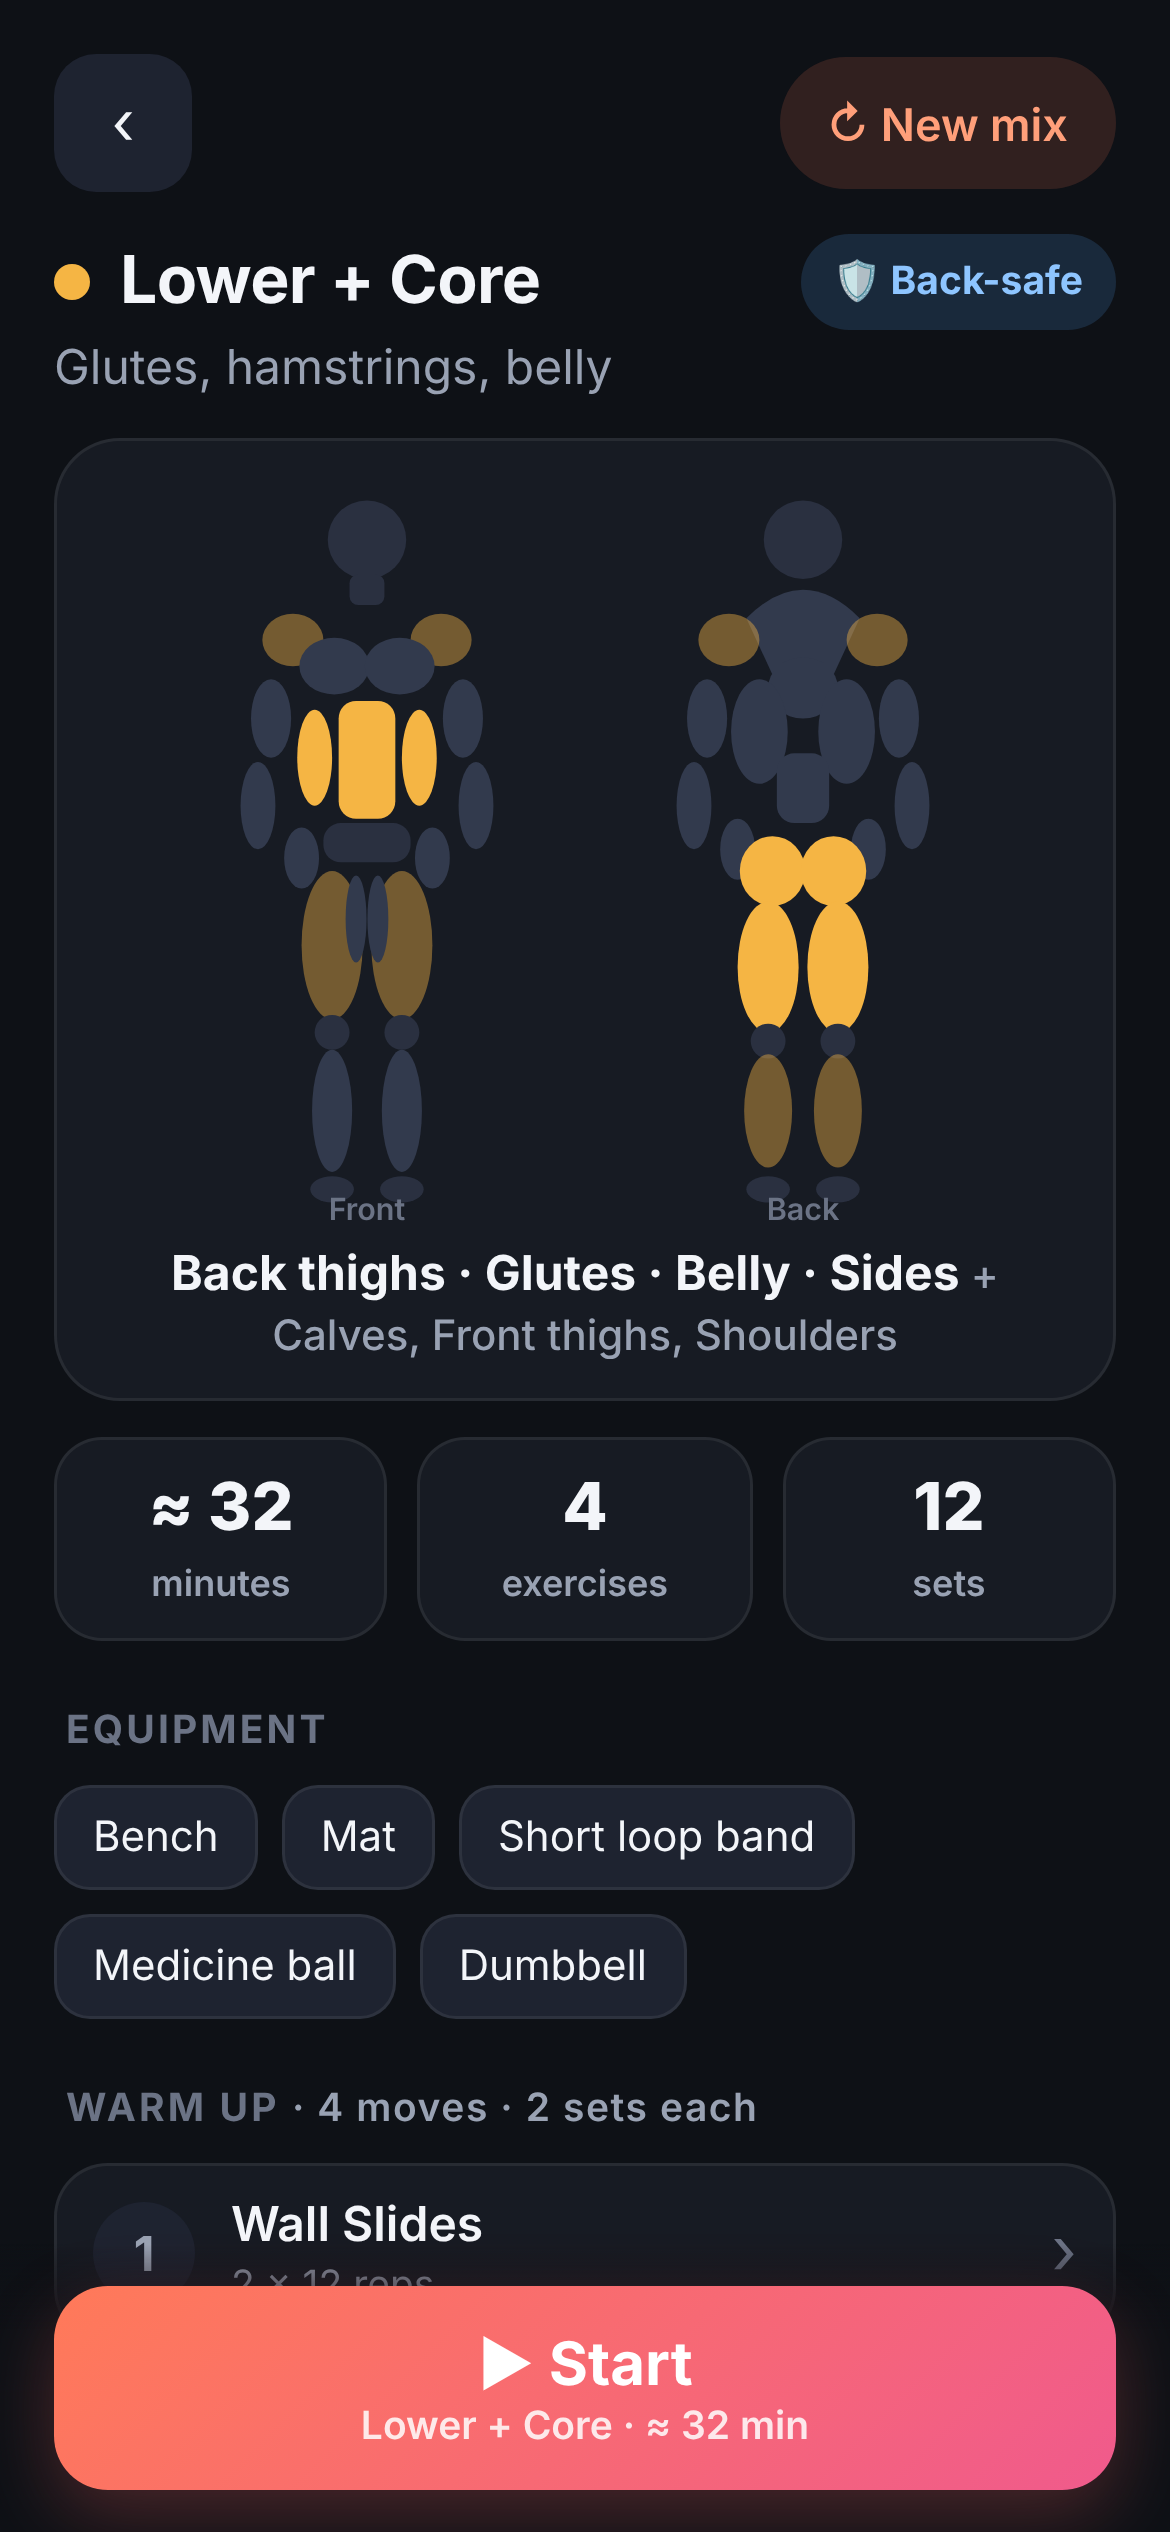
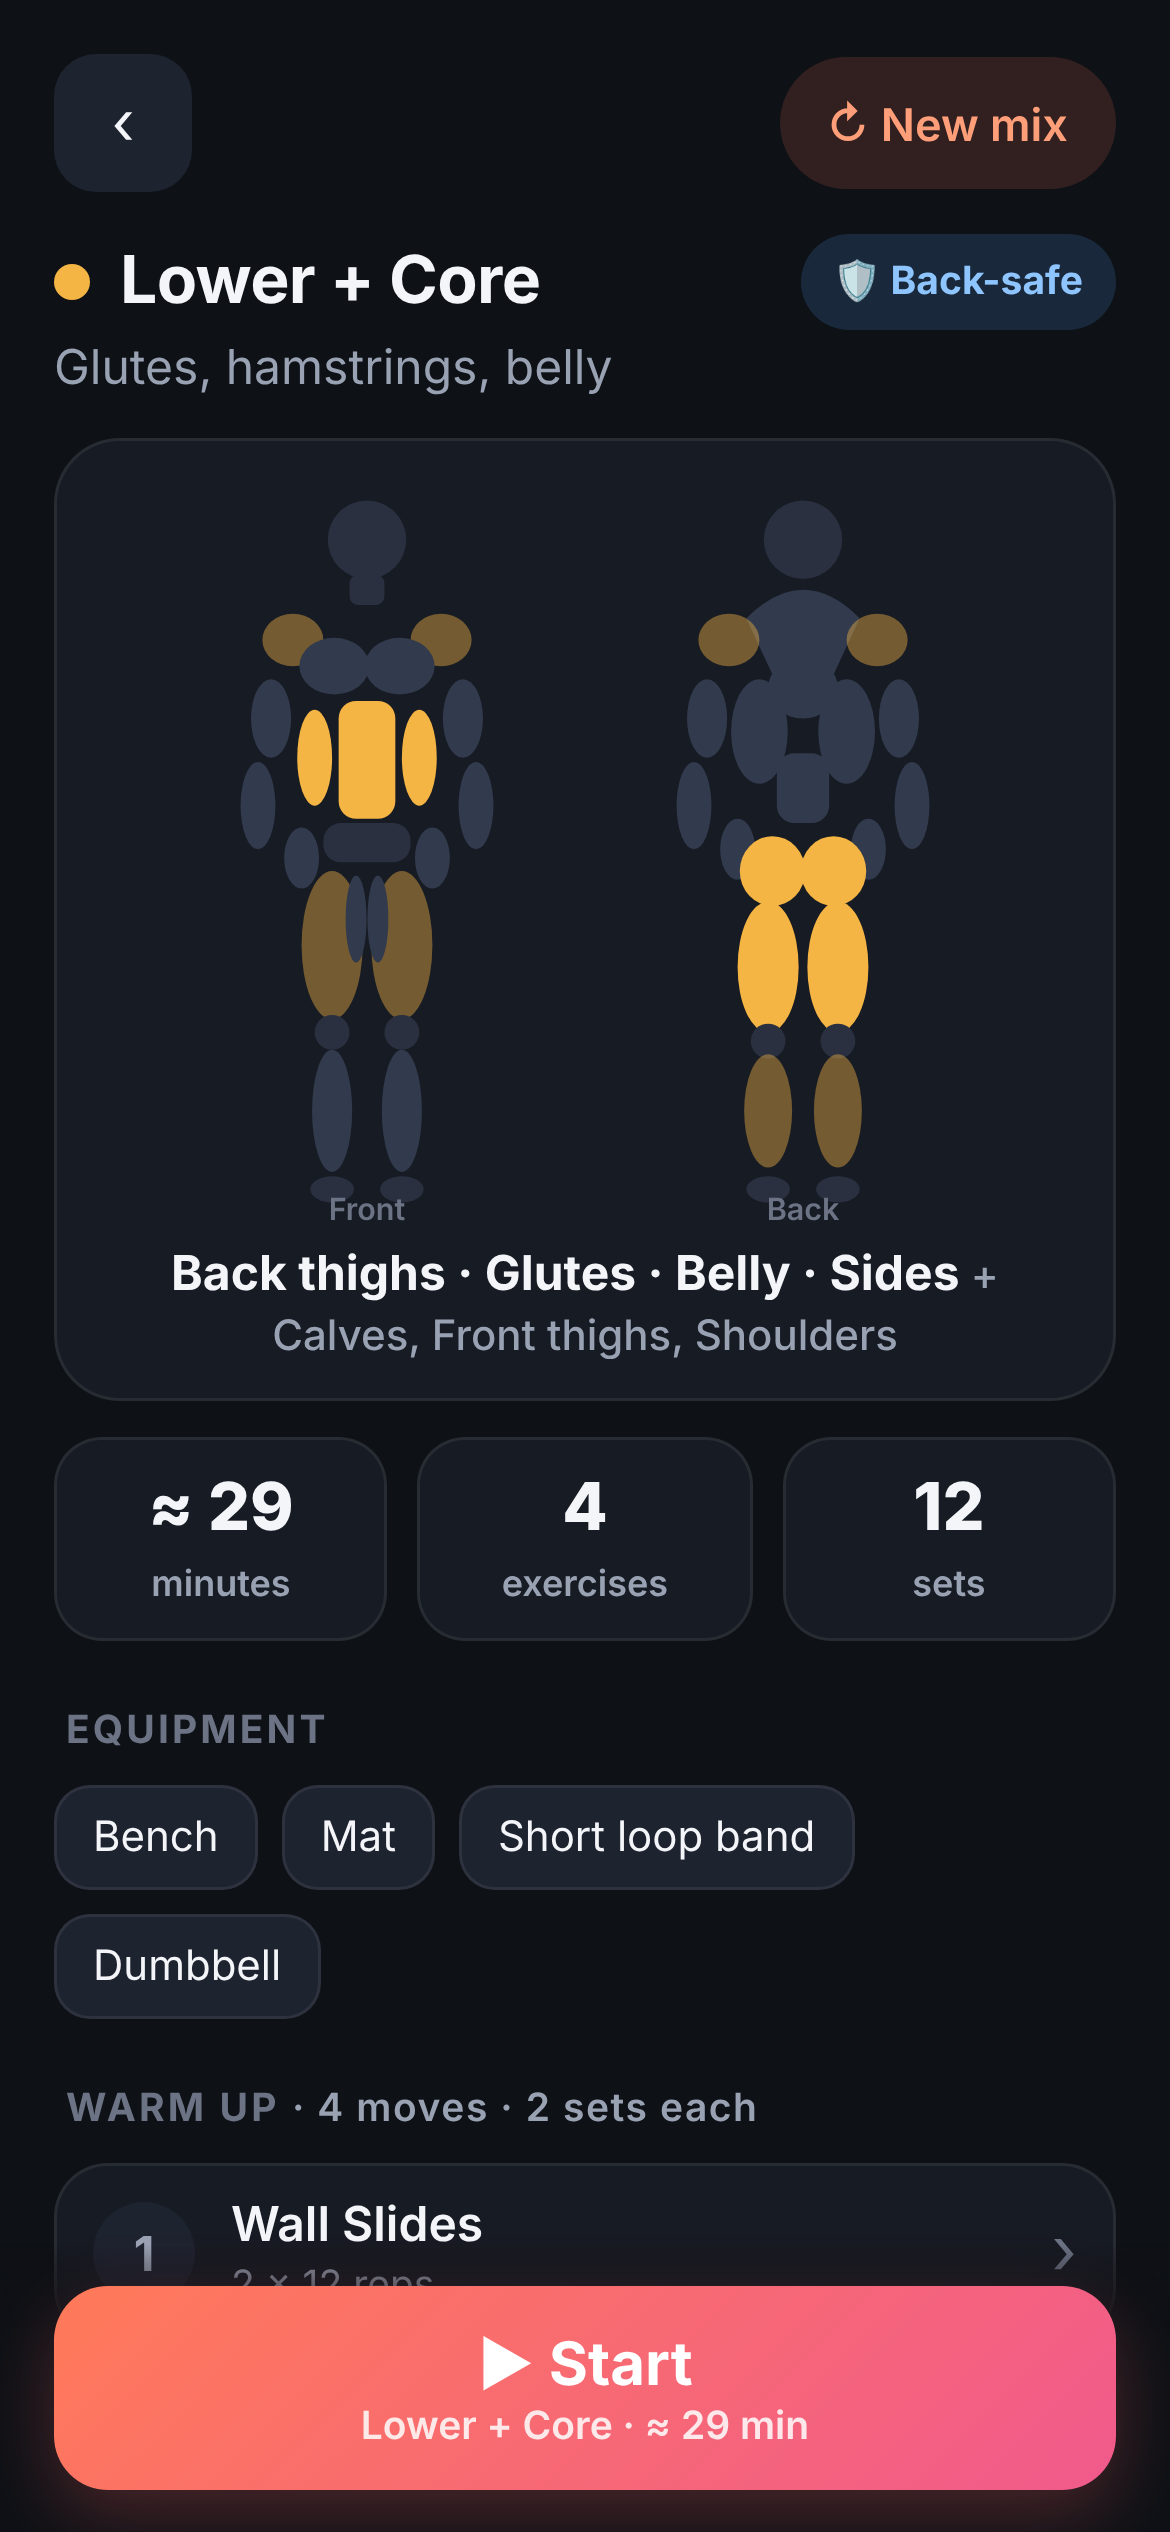
v6.8: 5 moves from Attainable Health and Fitness core reel, sprinkled into Block 1; reel tags support multiple reels

Changed region(s): [[0.0923, 0.7488, 0.5846, 0.8112], [0.1846, 0.5928, 0.2462, 0.624], [0.5846, 0.936, 0.6154, 0.9672]]

diff --git a/index.html b/index.html
@@ -534,6 +534,12 @@ reel_toe_reach:{g:"core",f:"chop",n:"Dumbbell Cross Reach (to shin)",v:"gSDi-M8p
 reel_chop_up:{g:"core",f:"chop",n:"Low-to-High Dumbbell Chop (standing)",v:"HtG6ybpEAZ0",c:"Feet wide, soft knees. Dumbbell in both hands at the outside of one hip. Lift it up and across to above the other shoulder. Pivot your back foot. Lower slowly. Switch sides.",e:"Dumbbell",w:"lb",r:"12-16",sw:8,fav:1,rl:1,m:[["obliques","shoulders"],["abs","glutes"]],rln:"Kassandra does 15 alternating reps. Keep the knee bend small, no squat."},
 reel_body_pass:{g:"core",f:"rot",n:"Dumbbell Around-the-Body Pass",v:"L1mmEBRHZrs",c:"Stand tall, feet hip-width, soft knees. Pass one dumbbell around your waist from hand to hand. Hips stay still, belly tight. Change direction every 5.",e:"Dumbbell",w:"lb",r:"16-20",sw:8,fav:1,rl:1,m:[["abs","obliques"],["shoulders","forearms"]],rln:"Kassandra does 20 reps, changing direction every 5."},
 reel_chop_down:{g:"core",f:"chop",xg:["sh"],n:"High-to-Low Dumbbell Chop (standing)",v:"bxSY805t8CQ",c:"Feet wide, soft knees. Hold one dumbbell with both hands above one shoulder. Pull it down and across to the outside of the other hip. Pivot your back foot. Lift back up slowly. Switch sides halfway.",e:"Dumbbell",w:"lb",r:"12-16",sw:8,fav:1,rl:1,m:[["obliques","shoulders"],["abs","lats"]],rln:"Kassandra does 15 reps from overhead."},
+// ---------- From Attainable Health and Fitness reel "Bulletproof shoulders and core in 4 weeks" (Facebook, Oct 2026). rl:2 ----------
+ahf_carry_over:{g:"core",f:"rot",n:"Seated Carry Over",v:"O7JzINCNMtA",c:"Sit tall on the mat (or the bench), legs out in front. Hold a light weight at one hip. Lift it and carry it across to the other hip. Sit tall, belly tight. Slow and controlled.",e:"Dumbbell or plate · Mat",w:"lb",r:"10-12",sw:8,fav:1,rl:2,m:[["obliques","abs"],["shoulders"]],rln:"She does 10 reps sitting on the floor. The demo shows it on a couch; same move."},
+ahf_heel_slide_oh:{g:"core",f:"anti",n:"Heel Slides + Overhead Hold",v:"F1voUJEWcoI",c:"Sit tall, knees bent, feet flat. Press a light weight straight up and hold it there. Slide one heel out until the leg is long, then pull it back. Switch legs. Ribs down, arms stay up.",e:"Light dumbbell or plate · Mat",w:"lb",r:"8-10",s:1,sw:5,fav:1,rl:2,m:[["abs","shoulders"],["obliques","triceps"]],rln:"She does 10 reps per leg. The demo shows the heel slide only; add the weight held overhead."},
+ahf_curl_up_oh:{g:"core",f:"flex",n:"Curl Up + Overhead Press (offset weight)",v:"lNNER_mpJfQ",c:"Lie on your back, knees bent, feet flat. Hold a light weight in one hand straight up. Curl up to sitting, keep the weight pointing to the ceiling. Lower slowly. Switch hands halfway.",e:"Light dumbbell · Mat",w:"lb",r:"8-10",sw:5,fav:1,rl:2,m:[["abs","shoulders"],["obliques","triceps"]],rln:"She does 10 reps. The weight in one hand makes it easier. Go only as high as feels good."},
+ahf_plank_dd:{g:"core",f:"anti",xg:["sh"],n:"Elevated Plank to Down Dog Reach",v:"qFkBCWYR_G8",c:"Hands on two dumbbells (or the bench), toes on the floor, body straight. Push hips up into a down dog. Reach one hand back toward the other shin. Back to plank. Switch. No knees on the floor.",e:"Dumbbells or bench",w:"none",r:"8-10",s:1,fav:1,rl:2,m:[["abs","shoulders"],["obliques","hamstrings","lats"]],rln:"She does 10 reps per arm with hands on dumbbells."},
+ahf_bridge_press:{g:"gb",f:"bridge",xg:["push"],n:"Single-Leg Bridge + Rotational Chest Press",v:"9wGQIwzHKCk",c:"Lie on your back, one foot flat, other leg up. Lift hips into a bridge. Press one dumbbell up, turning a little toward it. Lower slowly. Hips stay up. Switch sides.",e:"Dumbbell · Mat",w:"lb",r:"8-10",s:1,sw:10,fav:1,rl:2,m:[["glutes","chest"],["hamstrings","triceps","obliques"]],rln:"She does 10 reps per leg on the floor. The demo does it with shoulders on a bench; both are fine."},
 // ---------- BALANCE (always hold support) ----------
 sl_stand:{g:"bal",f:"static",n:"Single-Leg Stand (hold chair)",v:"E3j7nJyqLys",c:"Hold a chair or wall. Lift one foot a little. Stand tall. Switch at the beep.",e:"Chair or wall",w:"none",t:40,s:1,b:1,st:602,en:805,my:1,alt:["8xRDWe3pj30",0,0,"Short demo"],fav:1},
 tandem:{g:"bal",f:"static",n:"Heel-to-Toe Stand (at wall)",v:"E3j7nJyqLys",c:"Stand next to a wall, hand on it. One foot right in front of the other. Switch at the beep.",e:"Wall",w:"none",t:40,s:1,b:1,st:325,en:382,my:1,alt:["ra7tzlPxnsQ",0,0,"Short demo"],fav:1},
@@ -646,10 +652,10 @@ const BACK_BAD=new Set([
  "torso_twist","side_bend","cat_cow_stand","good_morning","hip_circles","elephant_walk","march",
  "upper_back","seated_twist","seated_ham","seated_piriformis","knee_drops","lying_twist","open_book","sphinx","lat_stretch",
  "chair_hip_ext",
- "reel_toe_reach"]);
+ "reel_toe_reach","ahf_curl_up_oh"]);
 /* if a whole slot is unsafe (e.g. RDL hinge, twisting core), pick from these instead */
 /* reel moves: Valerie says her back is fine, so only the loaded reach-to-the-floor is left out in back-safe mode */
-const REEL_FB="https://www.facebook.com/reel/878490528387532/";
+const REELS={1:{who:"Kassandra's reel",u:"https://www.facebook.com/reel/878490528387532/"},2:{who:"Attainable Health reel",u:"https://www.facebook.com/reel/28786485240989049/"}};
 const BACK_ALT={hinge:"gb",core:"core"};
 const XSLOTS=[{g:"bal",f:["static"],n:1,rest:15,fix:1,x:1},{g:"bal",f:["dyn"],n:1,rest:15,fix:1,x:1},{g:"bal",f:["dyn","static"],n:1,rest:15,fix:1,x:1},{g:"bal",f:["str"],n:1,rest:15,fix:1,x:1}];
 /* cm = extra weight for Coddell Mutate moves in that slot; fin = core finisher at the end of the day */
@@ -759,8 +765,8 @@ const RLW=()=>backSafe()?0.12:1;
 const wOf=(k,sl)=>{const p=prefOf(k);return (EX[k].fav?FAVW:1)*(EX[k].rl?RLW():1)*(sl&&sl.cm&&EX[k].cm?sl.cm:1)*(p==="more"?2:p==="less"?0.4:1)};
 function wpick(a,sl){let t=a.reduce((s,k)=>s+wOf(k,sl),0),r=Math.random()*t;for(const k of a){r-=wOf(k,sl);if(r<=0)return k}return a[a.length-1]}
 const CM_TAG='<span class="pill cm">💪 From Coddell Mutate</span>';
-const RL_TAG=`<a class="pill rl" href="${REEL_FB}" target="_blank" rel="noopener">🎬 From Kassandra's reel ↗</a>`;
-const srcTag=e=>(e.cm||e.rl)?`<div class="chips" style="margin-top:8px">${e.cm?CM_TAG:""}${e.rl?RL_TAG:""}</div>`:"";
+const RL_TAG=n=>{const r=REELS[n]||REELS[1];return `<a class="pill rl" href="${r.u}" target="_blank" rel="noopener">🎬 From ${r.who} ↗</a>`};
+const srcTag=e=>(e.cm||e.rl)?`<div class="chips" style="margin-top:8px">${e.cm?CM_TAG:""}${e.rl?RL_TAG(e.rl):""}</div>`:"";
 /* kettlebells come in fixed sizes: lb values of 4, 6, 8, 10, 12, 14, 16, 18, 20, 24 kg bells */
 const KB_LB=[9,13,18,22,26,31,35,40,44,53];
 const kgOf=lb=>Math.round(lb/2.2046);
@@ -1024,7 +1030,7 @@ function overview(day){
  const ms=sessionMuscles(p.b),sets=D.slots.reduce((t,sl,j)=>t+roundsFor(p.b[j],sl),0),em=estMin(day);
  const lite=(k,i,m)=>`<button class="item lite" onclick="preview('${k}','${day}',-1)"><span class="num">${i+1}</span><span class="sp" style="text-align:left"><span class="n">${exName(k)}</span><span class="m">${m}</span></span><span class="chev">›</span></button>`;
  const slot=j=>{const k=pick(day,j),e=EX[k],sl=slotOf(day,j),pf=prefOf(k);
-  return `<div class="item"><button class="mthumbbtn" onclick="preview('${k}','${day}',${j})" aria-label="Watch">${bodySVG(k,"mthumb")}</button><button class="sp" style="text-align:left" onclick="preview('${k}','${day}',${j})"><div class="n">${exName(k)}${e.fav?" <span title='favorite style'>⭐</span>":""}${e.cm?" <span title='From Coddell Mutate'>💪</span>":""}${e.rl?" <span title=\"From Kassandra's reel\">🎬</span>":""}${pf==="more"?" 👍":pf==="less"?" 👎":""}${isNew(k)?' <span class="pill ok" style="padding:2px 8px;font-size:11px;vertical-align:2px">NEW</span>':""}</div><div class="m tg">${fmtTarget(k,roundsFor(k,sl))}</div><div class="m mm">${musclesOf(k)[0].map(m=>MNAME[m]).join(" · ")}</div></button><button class="swap" onclick="openReplace('${day}',${j},0)" aria-label="Replace">⇄</button></div>`};
+  return `<div class="item"><button class="mthumbbtn" onclick="preview('${k}','${day}',${j})" aria-label="Watch">${bodySVG(k,"mthumb")}</button><button class="sp" style="text-align:left" onclick="preview('${k}','${day}',${j})"><div class="n">${exName(k)}${e.fav?" <span title='favorite style'>⭐</span>":""}${e.cm?" <span title='From Coddell Mutate'>💪</span>":""}${e.rl?" <span title=\"${(REELS[e.rl]||REELS[1]).who}\">🎬</span>":""}${pf==="more"?" 👍":pf==="less"?" 👎":""}${isNew(k)?' <span class="pill ok" style="padding:2px 8px;font-size:11px;vertical-align:2px">NEW</span>':""}</div><div class="m tg">${fmtTarget(k,roundsFor(k,sl))}</div><div class="m mm">${musclesOf(k)[0].map(m=>MNAME[m]).join(" · ")}</div></button><button class="swap" onclick="openReplace('${day}',${j},0)" aria-label="Replace">⇄</button></div>`};
  const beq=equipOf(day,p.b).join(", ");
  let h=`<div class="wrap"><div class="top"><button class="icon-btn" onclick="chooseScreen()" aria-label="Back">‹</button><div class="sp"></div><button class="pill acc" style="min-height:44px;padding:0 16px;font-size:15px" onclick="refreshPlan('${day}');overview('${day}')">↻ New mix</button></div>
  <div class="ovh"><span class="dot" style="background:${D.col}"></span><h2 style="margin:0">${D.t}</h2>${backSafe()?'<button class="pill bsafe" onclick="toast(\'Back-safe mode is on. Turn it off on the home screen.\')">🛡 Back-safe</button>':""}</div><div class="muted" style="margin-top:2px">${D.s}</div>
@@ -1487,7 +1493,7 @@ function healthHelp(d){const rec=d?recByD(d):null;
  <div style="margin-top:12px"><button class="btn sec" onclick="closeSheet()">Close</button></div>`;openSheet()}
 
 /* ===== app version: when the app comes back to the front (no workout running), load a newer version if there is one ===== */
-const APP_VER="6.7";
+const APP_VER="6.8";
 function checkUpdate(){if(S)return;fetch(location.pathname+"?vc="+Date.now(),{cache:"no-store"}).then(r=>r.text()).then(t=>{const m=t.match(/const APP_VER="([^"]+)"/);
  if(m&&m[1]!==APP_VER&&!S){let tried="";try{tried=sessionStorage.getItem("vw_upd")||""}catch(e){}if(tried===m[1])return;try{sessionStorage.setItem("vw_upd",m[1])}catch(e){}location.replace(location.pathname+"?v="+encodeURIComponent(m[1]))}}).catch(()=>{})}
 document.addEventListener("visibilitychange",()=>{if(document.visibilityState==="visible")setTimeout(checkUpdate,400)});
